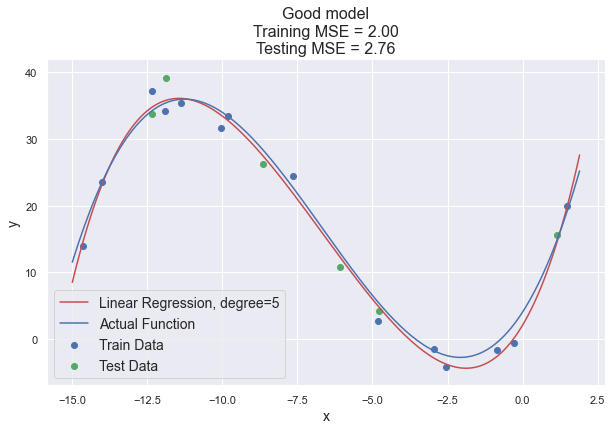
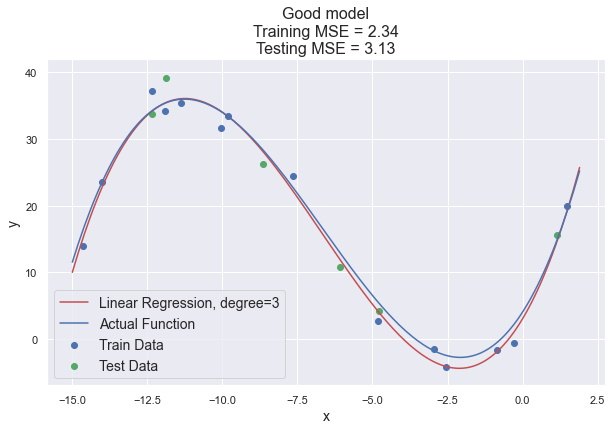
Add some images and update article without summary

diff --git a/principles.md b/principles.md
@@ -3,7 +3,7 @@
 
 A lot of articles have been written about overfitting, but almost all of them *are simply a list of tools*. "How to handle overfitting - top 10 tools" or "best techniques to prevent overfitting". *It's like being shown nails without explaining how to hammer them*. It can be very confusing for people who are trying to figure out how overfitting works. Also, these articles often do not consider underfitting, as if it does not exist at all.
 
-In this article, I would like to list the **basic principles** (exactly *principles*) for improving the quality of your model and, accordingly prevent underfitting and overfitting on a particular example. This is a very general issue that can apply to all algorithms and models, so it is very difficult to fully describe it. But I want to try to give you an *understanding* of why underfitting and overfitting occur and why one or another technique should be used.
+In this article, I would like to list the **basic principles** (exactly *principles*) for improving the quality of your model and, accordingly preventing underfitting and overfitting on a particular example. This is a very general issue that can apply to all algorithms and models, so it is very difficult to fully describe it. But I want to try to give you an *understanding* of why underfitting and overfitting occur and why one or another technique should be used.
 
 ## Underfitting and Overfitting and Bias/Variance Trade-off
 
@@ -20,29 +20,29 @@ This situation is also called **high bias**. This means that your algorithm can 
 
 | ![underfitting.jpg](./img/underfitting.jpg) |
 |:--:|
-| <b>Underfitting. The linear model is applied to cubic data. Image by Author</b>|
+| <b>Underfitting. The linear model trained on cubic data. Image by Author</b>|
 
 Opposite, **overfitting** is a situation when your model is **too complex** for your data. More formally, your hypothesis about data distribution is wrong and too complex - for example, your data is linear and your model is high-degree polynomial.
-This situation is also called **high variance**. This means that your algorithm can't do accurate predictions - by changing the input data only a little, the model output changes very much.
+This situation is also called **high variance**. This means that your algorithm can't do accurate predictions - changing the input data only a little, the model output changes very much.
 
 | ![overfitting.jpg](./img/overfitting.jpg) |
 |:--:|
-| <b>Overfitting. The 13-degree polynomial model is applied to cubic data. Image by Author</b>|
+| <b>Overfitting. The 13-degree polynomial model trained on cubic data. Image by Author</b>|
 
 These are two extremes of the same problem and the optimal solution always lies somewhere in the middle.
 
 | ![good_model.jpg](./img/good_model.jpg) |
 |:--:|
-| <b>Good model. The 5-degree polynomial model is applied to cubic data. Image by Author</b>|
+| <b>Good model. The cubic model trained on cubic data. Image by Author</b>|
 
-I will not talk much about bias/variance trade-off, you can read about it [here](https://towardsdatascience.com/understanding-the-bias-variance-tradeoff-165e6942b229).
+I will not talk much about bias/variance trade-off, you can read the basics [in this article](https://towardsdatascience.com/understanding-the-bias-variance-tradeoff-165e6942b229).
 
 | ![bias_variance_four_plots.jpg](./img/bias_variance_four_plots.jpg) |
 |:--:|
 | <b>Bias and Variance options on four plots. Image by Author</b>|
 
 But let me briefly mention possible options:
-- low bias, low variance - just right.
+- low bias, low variance - is a good result, just right.
 - low bias, **high variance** - **overfitting** - the algorithm outputs very different predictions for similar data.
 - **high bias**, low variance - **underfitting** - the algorithm outputs similar predictions for similar data, but predictions are wrong (algorithm "miss").
 - high bias, high variance - very bad algorithm. You will most likely never see this.
@@ -53,41 +53,83 @@ All these cases can be placed on the same plot. It is a bit less clear than the 
 |:--:|
 | <b>Bias and Variance options on one plot. Image by Author</b>|
 
-## Tools
+### How to Detect Underfitting and Overfitting
 
-Now let's look at techniques of fighting with underfitting and overfitting, considering exactly *why you should use them*.
+Before we move on to the tools, let's understand how to "diagnose" underfitting and overfitting.
 
-### General Intuition You Should Remember and How to Detect Underfitting and Overfitting
-
-However, before we move on to the tools, let's understand how to "diagnose" underfitting and overfitting.
+| ![train_test_error.png](./img/train_test_error.png) |
+|:--:|
+| <b>Train/test error and underfitting/overfitting. Image by Author</b>|
 
 **Underfitting** means that your model makes accurate, but initially incorrect predictions. In this case **train error is large and val/test error is large** too.
 
 **Overfitting** means that your model makes correct, but not accurate predictions. In this case **train error is very small and val/test error is large**.
 
-When you find a **gool model**, **train error is small** (but larger than in case of overfitting) and **val/test error is small** too.
+When you find a **good model**, **train error is small** (but larger than in case of overfitting), and **val/test error is small** too.
 
-| ![1.jpg](./img/1.jpg) |
+In the case above, the test error and validation error are approximately the same. This happens when everything is fine, and your *train, validation, and test data have the same distributions*. If validation and test error are very different, then you need to get more data similar to test data and make sure that you split the data correctly.
+
+| ![detect_underfitting_overfitting.png](./img/detect_underfitting_overfitting.png) |
 |:--:|
-| <b>How to diagnose underfitting and overfitting. Image by Author</b>|
+| <b>How to detect underfitting and overfitting. Image by Author</b>|
 
-In the case above, the test error and validation error is approximately the same. This happens when everything is fine, and your *train, validation and test data have the same distributions*. If validation and test error are very different, then you need to get more data similar to test data and make sure that you split the data correctly.
+## Tools
 
-Simple intuition you should remember:
-- **underfitting** occurs when your model is **too simple**.
-- **overfitting** occurs when your model is **too complex**.
+Now let's look at techniques of fighting with underfitting and overfitting, considering exactly *why we should use them*.
 
-### More Features / Less Features
+### General Intuition You Should Remember
 
+As we remember:
+- **underfitting** occurs when your model is **too simple** for your data.
+- **overfitting** occurs when your model is **too complex** for your data.
 
+Based on this, simple intuition you should keep in mind is:
+- to prevent **underfitting**, you should **complicate** the model.
+- to prevent **overfitting**, you should **simplify** the model.
+
+In fact, everything that will be listed below is only the consequence of this simple rule. I will try to show why certain actions really complicate or simplify the model.
+
+### More Simple / Complex Model
+
+The easiest way that comes to mind based on the intuition above is to try a simpler or more complex algorithm (model).
+
+To complicate the model, you need to add more parameters (degrees of freedom). Sometimes this means directly trying a more powerful model - one that is a priori capable of restoring more complex dependencies (SVM with different kernels instead of logistic regression). If the algorithm is already quite complex (neural network or some ensemble model), you need to add more parameters to it, for example, increase the number of models in boosting. In the context of neural networks, this means adding more layers / more neurons in each layer / more connections between layers / more filters for CNN, and so on.
+
+To simplify the model, you need contrariwise to reduce the number of parameters. Either completely change the algorithm (try random forest instead of deep neural network), or reduce the number of degrees of freedom. Fewer layers, fewer neurons, and so on.
 
 ### More Regularization / Less Regularization
 
+This point is very closely related to the previous one. Regularization is basically an *indirect simplification of the model*. The regularization term requires the model to keep parameters values as small as possible, so requires the model to be as simple as possible. Complex models with strong regularization often perform better than initially simple models, so this is a very powerful tool.
 
+| ![regularization.jpg](./img/regularization.jpg) |
+|:--:|
+| <b>Good model and complex model with regularization (Ridge/L2 regression). Image by Author</b>|
+
+More regularization means simplifying the model. More regularization also means to increase the impact of the *regularization term*. This process is strictly individual - depending on the algorithm, the regularization parameters are different (for example, **to reduce the regularization, the alpha for Ridge regression should be decreased, and C for SVM - increased**). So study the parameters of the algorithm and pay attention to whether they should be increased or decreased in a particular situation. There are a lot of such parameters - L1/L2 coefficients for linear regression, C and gamma for SVM, maximum tree depth, and so on. In the context of neural networks, the main regularization methods are:
+- Early stopping
+- Dropout
+- L1 and L2 Regularization
+
+You can read about them [in this article](https://medium.com/@ODSC/classic-regularization-techniques-in-neural-networks-68bccee03764).
+
+Opposite, in the case when the model needs to be complicated, you should reduce the influence of regularization terms or abandon the regularization at all and see what happens.
+
+### More Features / Less Features
+
+This may not be so obvious, but adding new features also complicates the model. Think about it in the context of a polynomial regression - adding quadratic features to a dataset allows a linear model to recover quadratic data.
+
+"Natural" feature augmentation (if you can call it that) - obtaining new features for existing data is used infrequently, mainly due to the fact that it is very expensive and long. But you can keep in mind that sometimes this can help.
+
+But artificial obtaining of new features from existing ones (the so-called *feature engineering*) is used quite often for classical machine learning models. This can include:
+- polynomial features
+- log(x), ...
+- transformation of categorical features
+
+It is worthwhile to say that in the context of neural networks, feature engineering makes almost no sense because the network finds dependencies in the data itself. This is actually why deep neural networks are able to restore such complex dependencies.
 
 ### Why Getting More Data Sometimes Can't Help
 
-One of the techniques to combat overfitting is to get more data. However, surprisingly, this may not always help. Let's generate a simular dataset 10 times larger and train the same models on it.
+One of the techniques to combat overfitting is to get more data. However, surprisingly, this may not always help. Let's generate a similar dataset 10 times larger and train the same models on it.
 
 | ![more_data.jpg](./img/more_data.jpg) |
 |:--:|
@@ -97,13 +139,13 @@ A very simple model (degree 1) has remained simple, almost nothing has changed. 
 
 But the complex model (degree 13) has changed for the better. It is still worse than the initially good model (degree 3), but much better than the original one. Why did this happen?
 
-Last time (for the initial dataset), the model was trained on 14 points (*20 (initial data set size) * 0.7 (train ratio) = 14 data points*). A 13-degree polynomial can perfectly match these data (by analogy, we can draw an ideal straight line (degree = 1) through 2 points, an ideal parabola (degree = 2) through 3 points - and so on). By getting 10 times more data, the size of our train set is now 140 data points. To perfectly match these data, we need a 139-degree polymonial!
+Last time (for the initial dataset), the model was trained on 14 points (*20 (initial data set size) * 0.7 (train ratio) = 14 data points*). A 13-degree polynomial can perfectly match these data (by analogy, we can draw an ideal straight line (degree = 1) through 2 points, an ideal parabola (degree = 2) through 3 points - and so on). By getting 10 times more data, the size of our train set is now 140 data points. To perfectly match these data, we need a 139-degree polynomial!
 
-Note that if we had initially trained a VERY complex model (for example, 150-degree polynomial), such increase in data would not have helped. So get more data is a good way to improve the quality of the model, but it may not help if the model is very very complex.
+Note that if we had initially trained a VERY complex model (for example, 150-degree polynomial), such an increase in data would not have helped. So get more data is a good way to improve the quality of the model, but it may not help if the model is very very complex.
 
 So, the conclusion is - **getting more data can help only with overfitting (not underfitting) and if your model is not TOO complex**. 
 
-In the context of computer vision, getting more data can also mean *data augmentation*. 
+In the context of computer vision, getting more data can also mean *[data augmentation](https://en.wikipedia.org/wiki/Data_augmentation)*. 
 
 ## Summary
 
